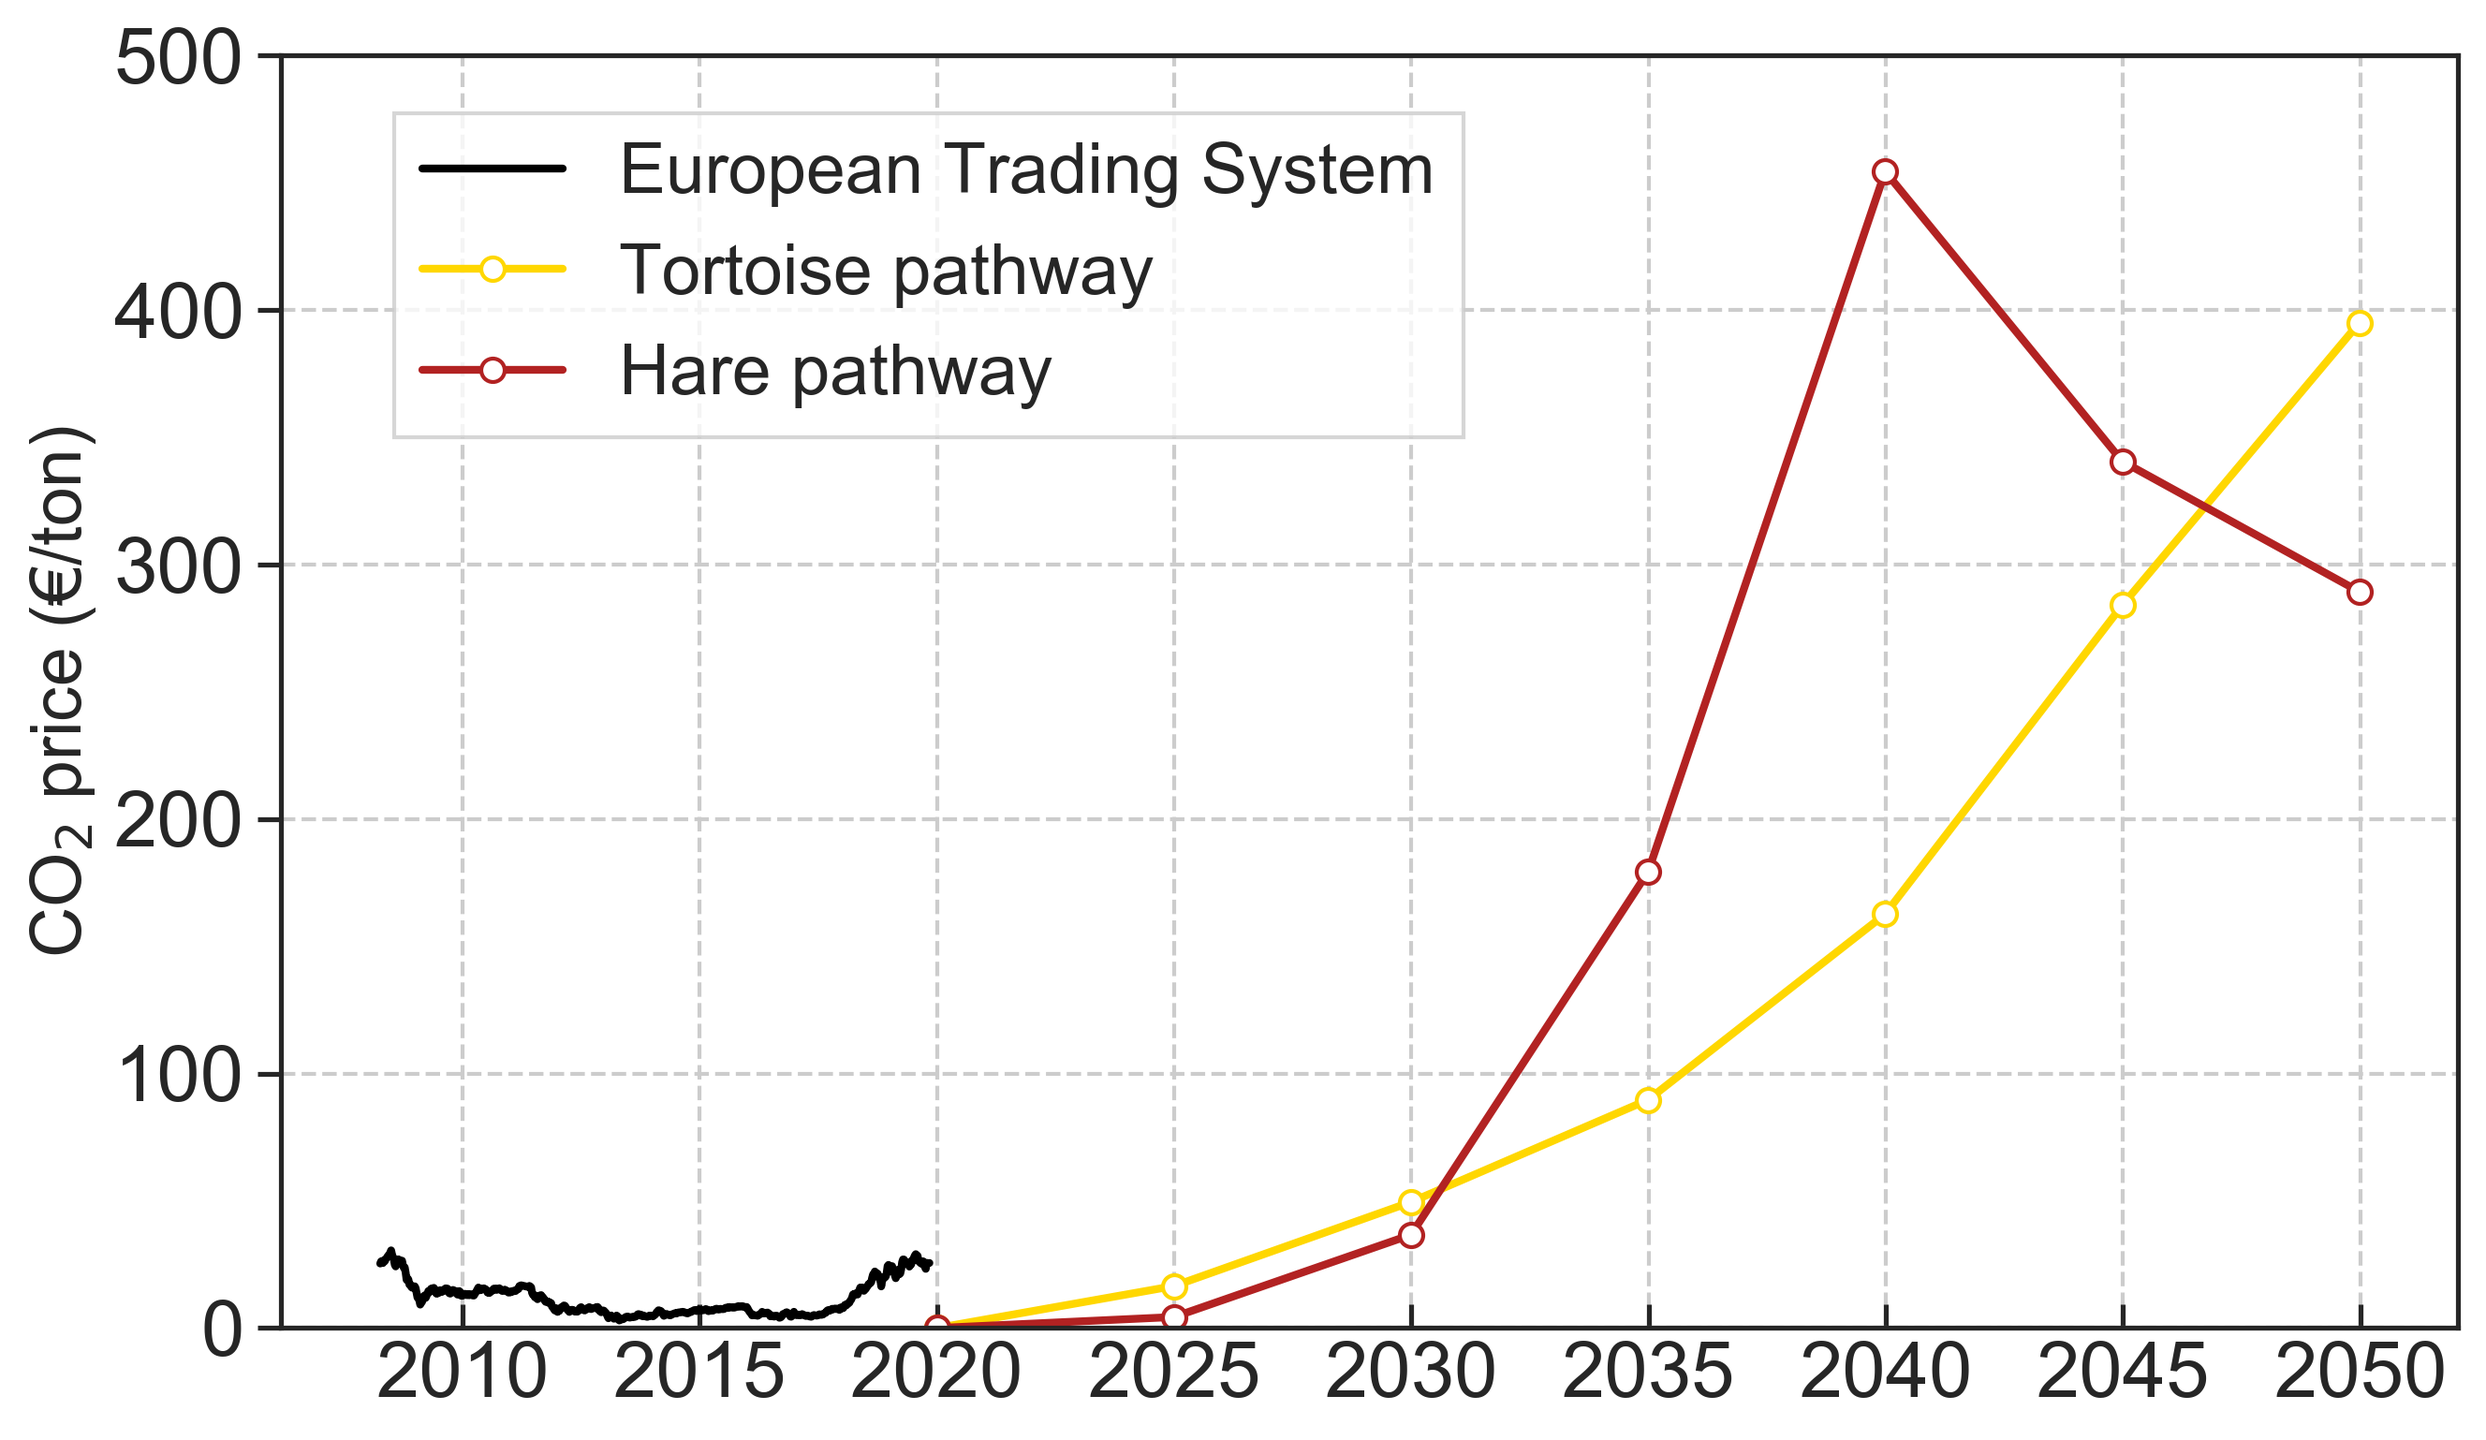
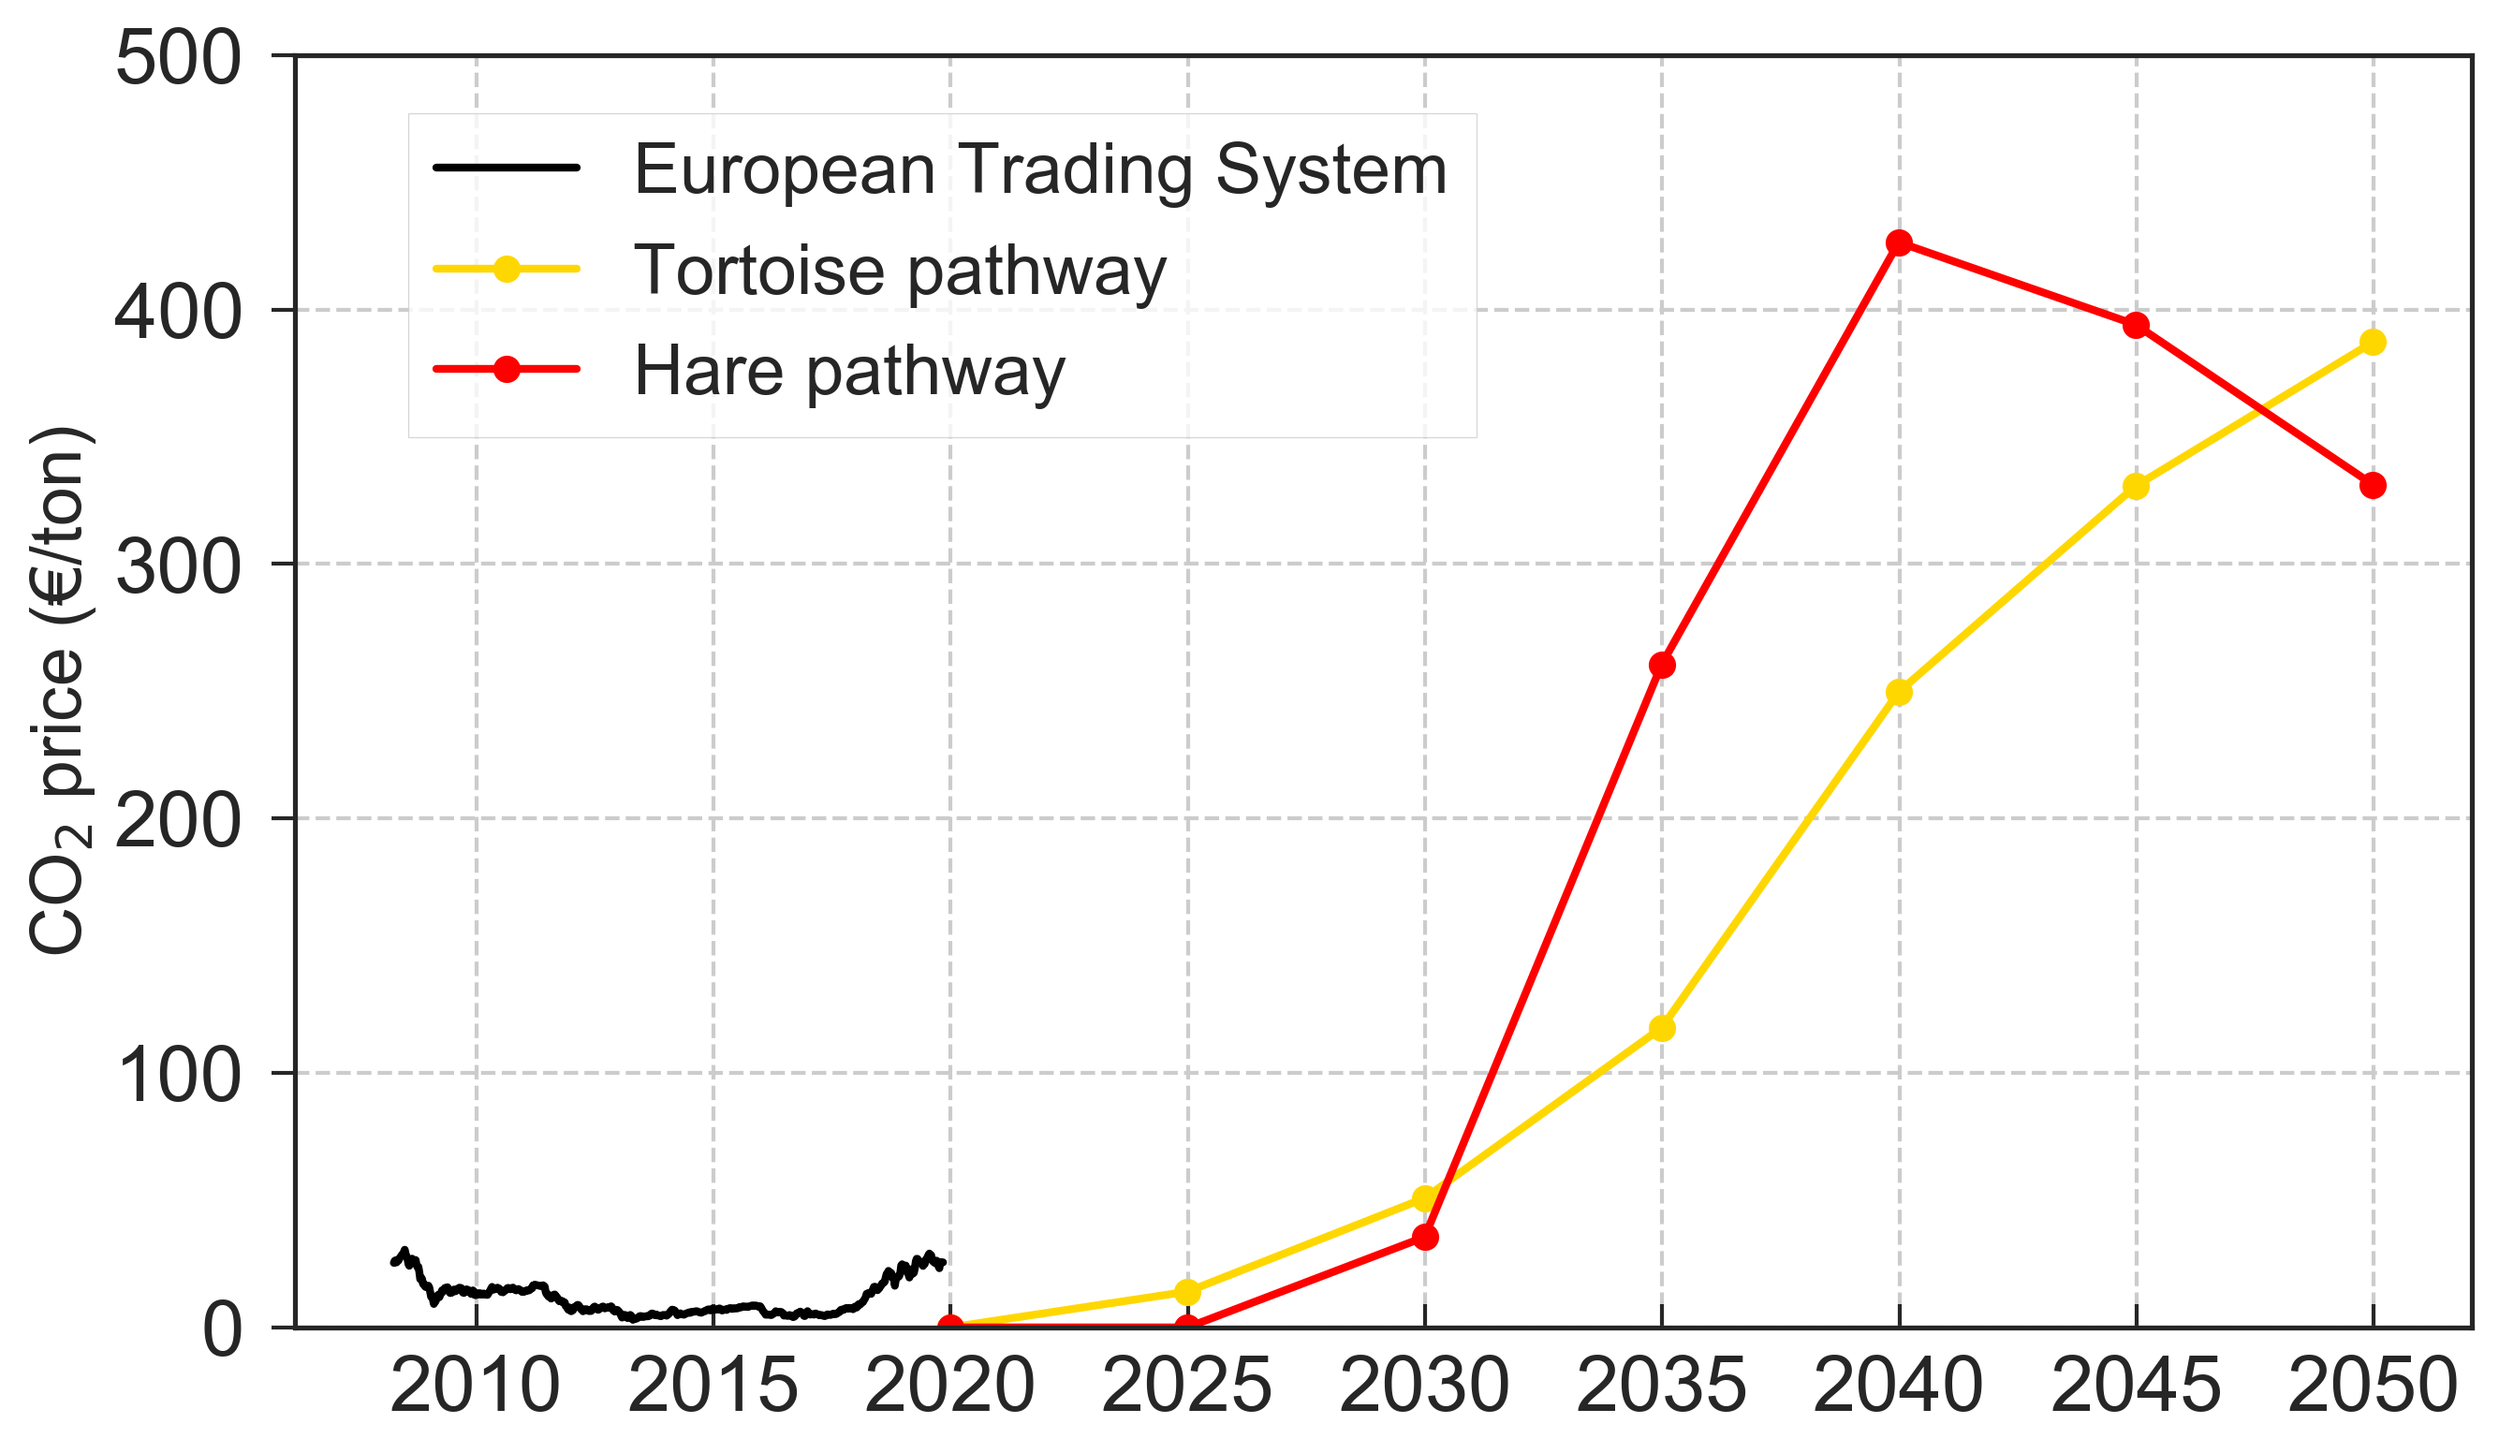
change color in CO2 price figure

diff --git a/paper_graphics/evolution_CO2_price.py b/paper_graphics/evolution_CO2_price.py
@@ -36,10 +36,10 @@ def plot_co2_prices():
     ax1.plot(date, data['Price'] , linewidth=2, color='black', label='European Trading System')
     
     date2 = [datetime(2020,1,1,0,0,0) + timedelta(hours=8760*i*5) for i in range(0,7)]
-    ax1.plot(date2, metrics.loc['co2_price',idx['go', 'opt',:]], linewidth=2, color= 'gold', 
-             marker='o', markerfacecolor='white', label='Tortoise pathway')
-    ax1.plot(date2, metrics.loc['co2_price',idx['wait', 'opt',:]], linewidth=2, 
-             color= 'firebrick', marker='o', markerfacecolor='white', label='Hare pathway')
+    ax1.plot(date2, metrics.loc['co2_price',idx['go', 'TYNDP',:]], linewidth=2, color= 'gold', 
+             marker='o', markeredgecolor='gold', label='Tortoise pathway')
+    ax1.plot(date2, metrics.loc['co2_price',idx['wait', 'TYNDP',:]], linewidth=2, 
+             color= 'red', marker='o',  label='Hare pathway')
     ax1.set_ylabel('CO$_2$ price (€/ton)', fontsize=18)
     ax1.grid(linestyle='--')
     ax1.set_ylim([0, 500])    

diff --git a/paper_graphics/carbon_budget.py b/paper_graphics/carbon_budget.py
@@ -75,7 +75,7 @@ def plot_carbon_budget():
                            columns=pd.Series(data=['last-minute', 'cautious'], name='paths'))
     
     colors = pl.cm.hot(np.linspace(0,1,6))
-    #colors=['firebrick', 'red', 'darkorange', 'gold', 'green', 'blue']
+    #colors=['red', 'red', 'darkorange', 'gold', 'green', 'blue']
     colors=['lightgray', 'lightgray', 'red',  'gold', 'lightgray', 'lightgray']
     plt.figure(figsize=(10, 6))
     gs1 = gridspec.GridSpec(1, 1)
